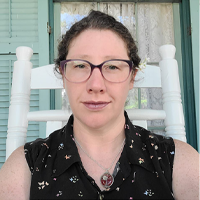
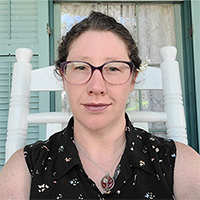
mMuipage update

diff --git a/mM/uiUx/mMUiUx.html b/mM/uiUx/mMUiUx.html
@@ -35,105 +35,100 @@
            <!--<a href="../mM/mMunchies.html"><img src="../../images/mMLogoSmallDevice.png" alt="UI Exploration" class="flex" id="mMlogo2"></a>
             <h2 id="title" class="flex">Movie Munchies</h2> 
             <blockquote id="quote" class="flex">A Web App designed for preordering not only ticket, but also food and drinks. </blockquote>-->
+       
+            <h1>Movie Munchies</h1>
+            <p class="flex" id="flex6-6">Skip the long concession line. Buy tickets, reserve seats,  and pre-order food and snacks up to 6 hours before the movie starts.</p>
         </div>
-      
         <article class="grid3 flex">
       
-            <!--<div id="article">-->
-                       
-           
-                <ul>
-                    
-                    <li><a href="https://www.figma.com/proto/OkTrsySPc7zz9g09eydKeA/Theater-Snack-Service?page-id=1207%3A731&type=design&node-id=1207-732&viewport=319%2C261%2C0.07&t=V73VLQ8kH5pL1B1J-1&scaling=min-zoom&starting-point-node-id=1207%3A732&mode=design" target="_blank"><p class="prototype1 flex-item flex13"> Mobile Prototype</p></a></li>
-    
+                <ul  class="flex-item">
                     <li>
-                        <img src="../mMUiUx-img/busyConcession-Small.png" alt="Sign Up or Log in screen" class="tss1 flex1 flex-item" >
+                        <a href="https://www.figma.com/proto/OkTrsySPc7zz9g09eydKeA/Theater-Snack-Service?page-id=1207%3A731&type=design&node-id=1207-732&viewport=319%2C261%2C0.07&t=V73VLQ8kH5pL1B1J-1&scaling=min-zoom&starting-point-node-id=1207%3A732&mode=design" target="_blank"><p class="prototype1" id="flex13"> Mobile Prototype</p></a></li>
                     </li>
-                    <li>
-                        <div class="flex2-2 flex-item">
-        
-                            <h1>The Wait</h1>
-        
-                            <h4>	Nobody likes a crowd and there isn’t one person who enjoys waiting. <br><br>
-
-                                The line is long and the movie has started, but you missed dinner and or lunch.<br>
-                                 You were able to make it to meet with friends at the theater just in time for the <br>
-                                 new release of your favorite franchies’s latest movie.<br><br>
+                    <li class="flex-item" id="flex1-1">
+                        <h1>The Wait</h1>
+                        <p>Nobody likes a crowd and there isn&#39t one person who enjoys waiting.</p>
+                    </li>
+                    <li class="flex-item" id="flex1">
+                        <img src="../mMUiUx-img/busyConcession-Small2.png" alt="Busy Concessions">
+                        <img src="../mMUiUx-img/theWait - Med.png" alt="Busy Concessions Stories" id="wait1">
+                        <img src="../mMUiUx-img/theWait - Desk.png.png" alt="Busy Concessions Stories" id="wait2">
+                        <img src="../mMUiUx-img/theWait - Large.png.png.png" alt="Busy Concessions Stories" id="wait3">
+                    </li>
+                    <li id="flex1-1">
+                       <p>The line is long and the movie has started, but you missed dinner and or lunch.<br>
+                        You were able to make it to meet with friends at the theater just in time for the <br>
+                        new release of your favorite franchise&#39s latest movie.</p>
                             
-                                .....5 minutes.... 10 minutes pass. What have you missed?</h4>
-        
-                              
-                                   
-                               
-                        </div>
+                        <p> .....5 minutes.... 10 minutes pass. What have you missed?</p>  
                     </li>
 
-            <li>
-                <img src="../mMUiUx-img/person - Small.png" alt="Sign Up form" class="tss2 flex2 flex-item" >
-            </li>
+                    <li class="flex-item" id="flex2">
+                        <img src="../mMUiUx-img/Lyndsey-Small.png" alt="Sign Up form" >
+                    </li>
 
-            <li>
-                <div class="flex2-2 flex-item">
-
-                    <h3>Select a Movie</h3>
-
-                    <h4>The lastest movies from<br>theaters near you.</h4>
-
-                      
-                            <p>One Stop</p>
-                            <p>Easy Navigation</p>
-                            <p>Theaters in your area</p>
-                       
-                </div>
-            </li>
+                    <li id="flex2-2">
+                       <blockquote></blockquote>
+                
+                        <h3>Goals</h3>
+                        <p>Order food prior to the movie.</p>
+                        <p>No food runs during the movie.</p>
             
-            <li>   
-                <img src="..//mMUiUx-img/loginMovieSelect-Small.png" alt="Select movie time and reserve seats" class="tss3 flex3 flex-item">
-            </li>
-             <li>
-                <div class="flex3-3 flex-item">
-                    <h3>Reserve and Confirm</h3>
+                    
+                        <h3 >Frustrations</h3>
+                        <p>Not being able to see the whole menu in a short amount or time.</p>
+                        <p>Feeling rushed to order because of the line behind me.</p>
+                        <p></p>
+                </li>
+                <li class="flex-item" id="flex3">
+                    <img src="../mMUiUx-img/hotWingSelect-Small.png" alt="Order Food">
+                </li>
+                    
+                <li  class="flex-item" id="flex4">  
+                    <img src="../mMUiUx-img/loginScreen - Small2.png" alt="Login Screen">
+                </li>
+                    <li id="flex4-1">
+                        <img src="../mMUiUx-img/Login screen - smallOverlay.png" alt="Overlay">
+                    </li>
+                
+                <li class="flex-item" id="flex5"> 
+                    <img src="../mMUiUx-img/movieSelect - Small.png" alt="Select Movie Screen">
+                </li>
+                    <li id="flex5-1">
+                        <img src="../mMUiUx-img/movieSelect - SmallOverlay.png" alt="Overlay">
+                    </li>  
+               
+             
+                <li class="flex-item" id="flex6">
+                    <img src="../mMUiUx-img/seatSelect - small.png" alt="Seat Assignments">
+                </li>
+                <li id="flex6-1">
+                    <img src="../mMUiUx-img/seatSelect - smallOverlay.png" alt="Overlay">
+                </li>
+                
+                <li class="flex-item" id="flex7">
+                    <img src="../mMUiUx-img/editFood - small.png" alt="Edit Food">
+                </li>
+                <li id="flex7-1">
+                <img src="../mMUiUx-img/editFood - smallOverlay.png" alt="Overlay">
 
-                    <h4>Don't worry about<br> where to sit.<br> We got you covered.</h4>
-                       
-                            <p>Check availability</p>
-                            <p>Reserve a spot</p>
-                            <p>Beat the crowd</p>
-                            <p>Login to cancel</p>
-                       
-                    <p style="font-size: 0.6rem; text-align: center;">Please cancel 12 hours <br> prior to movie time.</p>
-                </div>
-             </li>
+                </li>
 
-            <li>
-                <img src="../mMUiUx-img/checkoutSeatSelection - Small.png" alt="Sign Up form" class="tss4 flex4 flex-item">
-            </li>
-            
-            <li>
-                <div class="flex4-4 flex-item">
-                    <h3>Preorder Food</h3>
-
-                    <h4>No more long<br> lines or feeling<br> rushed to order<br> during movie time.</h4>
-                        
-                            <p>Navigate theater's menu</p>
-                            <p>Preorder</p>
-                </div>
-            </li>
-            <li>
-                <img src="../mMUiUx-img/Site Map - Small.png" alt="Site Map" class="tss6t flex6 flex-item">
-            </li>
-            <li>
-                <img src="../mMUiUx-img/ColorPallete-Small.png" alt="Color Guidelines" class="tss5c flex5 flex-item">
-            </li>
-            
-            <li>
-                <img src="mMUiUx-img/Typography-Small.png" alt="Typography" class="tss6t flex6 flex-item">
-            </li>
-            <li><a href="https://www.figma.com/proto/OkTrsySPc7zz9g09eydKeA/Theater-Snack-Service?page-id=1207%3A731&type=design&node-id=1207-732&viewport=319%2C261%2C0.07&t=V73VLQ8kH5pL1B1J-1&scaling=min-zoom&starting-point-node-id=1207%3A732&mode=design" target="_blank"><p class="prototype2 flex-item flex13"> Mobile Prototype</p></a></li>
-        </ul>
-     <!--</div>-->
-   
+                <li class="flex-item">
+                    <img src="../mMUiUx-img/Site Map - Small.png" alt="Site Map">
+                </li>
+                <li class="flex-item">
+                    <img src="../mMUiUx-img/ColorPallete-Small.png" alt="Color Guidelines">
+                </li>
+                 <li class="flex-item">
+                    <img src="mMUiUx-img/Typography-Small.png" alt="Typography">
+                </li>
+                <li class="flex-item">
+                    <a href="https://www.figma.com/proto/OkTrsySPc7zz9g09eydKeA/Theater-Snack-Service?page-id=1207%3A731&type=design&node-id=1207-732&viewport=319%2C261%2C0.07&t=V73VLQ8kH5pL1B1J-1&scaling=min-zoom&starting-point-node-id=1207%3A732&mode=design" target="_blank"><p class="prototype2" id="flex13"> Mobile Prototype</p></a>
+                </li>
+            </ul>
         </article>
+        
         <nav class="grid4">
             <ul> 
                 <li><a href="https://www.instagram.com/tdb.webdev/" target="_blank"><img src="../../images/Insta-logo-icon-1-2.png" alt="instagram link" class="insta flex7"></a></li>

diff --git a/mM/uiUx/mUiStyle/mMUiMedia.css b/mM/uiUx/mUiStyle/mMUiMedia.css
@@ -8,6 +8,73 @@ overflow-x:hidden;
     justify-content:center;
     align-items: center;
 }
+h1, h2, h3, h4, h5, h6 {
+    font-family: Cambria, Cochin, Georgia, Times, 'Times New Roman', serif;
+    color: antiquewhite;
+}
+#flex6-6 {
+    position: relative;
+    width:75%;
+    margin-left: 15%;
+    font-family: Arial, Helvetica, sans-serif;
+    font-size: 20px;
+    color: antiquewhite;
+}
+#flex1-1, #flex2-2, #flex3-3, #flex4-4, #flex5-5 {
+    position: relative;
+    width:65%;
+    font-family: Arial, Helvetica, sans-serif;
+    font-size: 20px;
+    color: antiquewhite;
+}
+#flex4-1 {
+   position: absolute;
+   left:11%;
+   bottom: 54.8%;
+   z-index: 3;
+}
+#flex5{
+margin-right: 15%;
+}
+#flex5-1 {
+    position: absolute;
+    left:13%;
+    bottom: 44.6%;
+    z-index: 4;
+}
+#flex6{
+    margin-left:20%;
+}
+#flex6-1 {
+    position: absolute;
+    margin-left:20%;
+    bottom: 34.5%;
+    z-index: 7;
+}
+#flex7{
+margin-right: 15%;
+}
+#flex7-1 {
+    position: absolute;
+    right: 5%;
+    bottom:24.5%;
+    z-index: 8;
+}
+blockquote {
+    font-family: Arial, Helvetica, sans-serif;
+    width: 85%;
+    font-size: 18px;
+    color: #faebd7;
+}
+#goals {
+
+}
+#frustrations {
+    
+}
+#wait1, #wait2, #wait3 {
+    display: none;
+}
 #title {
     margin-left:1%;
     font-style: italic;
@@ -116,6 +183,7 @@ a:hover {
     height: fit-content;
     border: 1px solid pink;
 }
+
 #heroSm {
     position: relative;
     width: 100%;
@@ -166,12 +234,15 @@ a:hover {
 
  
 .flex-item {
-    font-size:22px;
     display: flex;
     flex-direction: column;
     justify-content: center;
     align-items: center;
-    margin-left: 12%;
+    margin-top: 20%;
+}
+.grid3 ul {
+    list-style-type: none;
+    margin-right:15%;
 }
 .flex10 {
     margin: 0;
@@ -208,36 +279,16 @@ a:hover {
     padding:3%;
     font-size:18px;
    }
-   .flex13  {
-    margin: 0;
-    padding: 0;
-    width: fit-content;
-    height: fit-content;
-    padding:3%;
-    margin-left: 10%;
-    font-size: 18px;
+   #flex13  {
+    font-size: 20px;
    }
 
-  .flex1 {
-    width: 100%;
+  #flex1 {
     height: auto;
-    float: left;
+    margin-top: 0%;
     border: 1px solid pink;
   }
-.flex2 {
-    width:100%;
-    height: auto;
-}
-.flex3 {
-    width:100%;
-}
-.flex4 {
-    
-    width:30%;
-}
-.flex5, .flex6 {
 
-}
 footer ul li {
     display: block;
 }
@@ -331,6 +382,7 @@ overflow-x:hidden;
         width:85%;
         height: fit-content;
         left:0;
+        margin-bottom: 0%;
         top:1%;
         font-size: 16px;
     }

diff --git a/mM/uiUx/mUiStyle/mMUiUxStyle.css b/mM/uiUx/mUiStyle/mMUiUxStyle.css
@@ -197,30 +197,11 @@ blockquote {
 
 .flex1-1, .flex2-2, .flex3-3, .flex4-4, .flex5s-5, .flex6t-6 {
     position: absolute;
-    width: 18rem;
+   
     height:auto;
     color:white;
 }
-.flex1-1 {
-   z-index: 4;
-   left: 6rem;
-   top: 6rem;
-}
-.flex2-2 {
-    z-index: 5;
-    left: 36rem;
-    top: 7rem;
-}
-.flex3-3{
-    z-index: 6;
-    left: 69rem;
-    top: 5rem;
-}
-.flex4-4{
-    z-index: 7;
-    left: 100rem;
-    top: 7rem;
-}
+
 
 /*Naviation at the bottom of the page*/
 nav ul {
